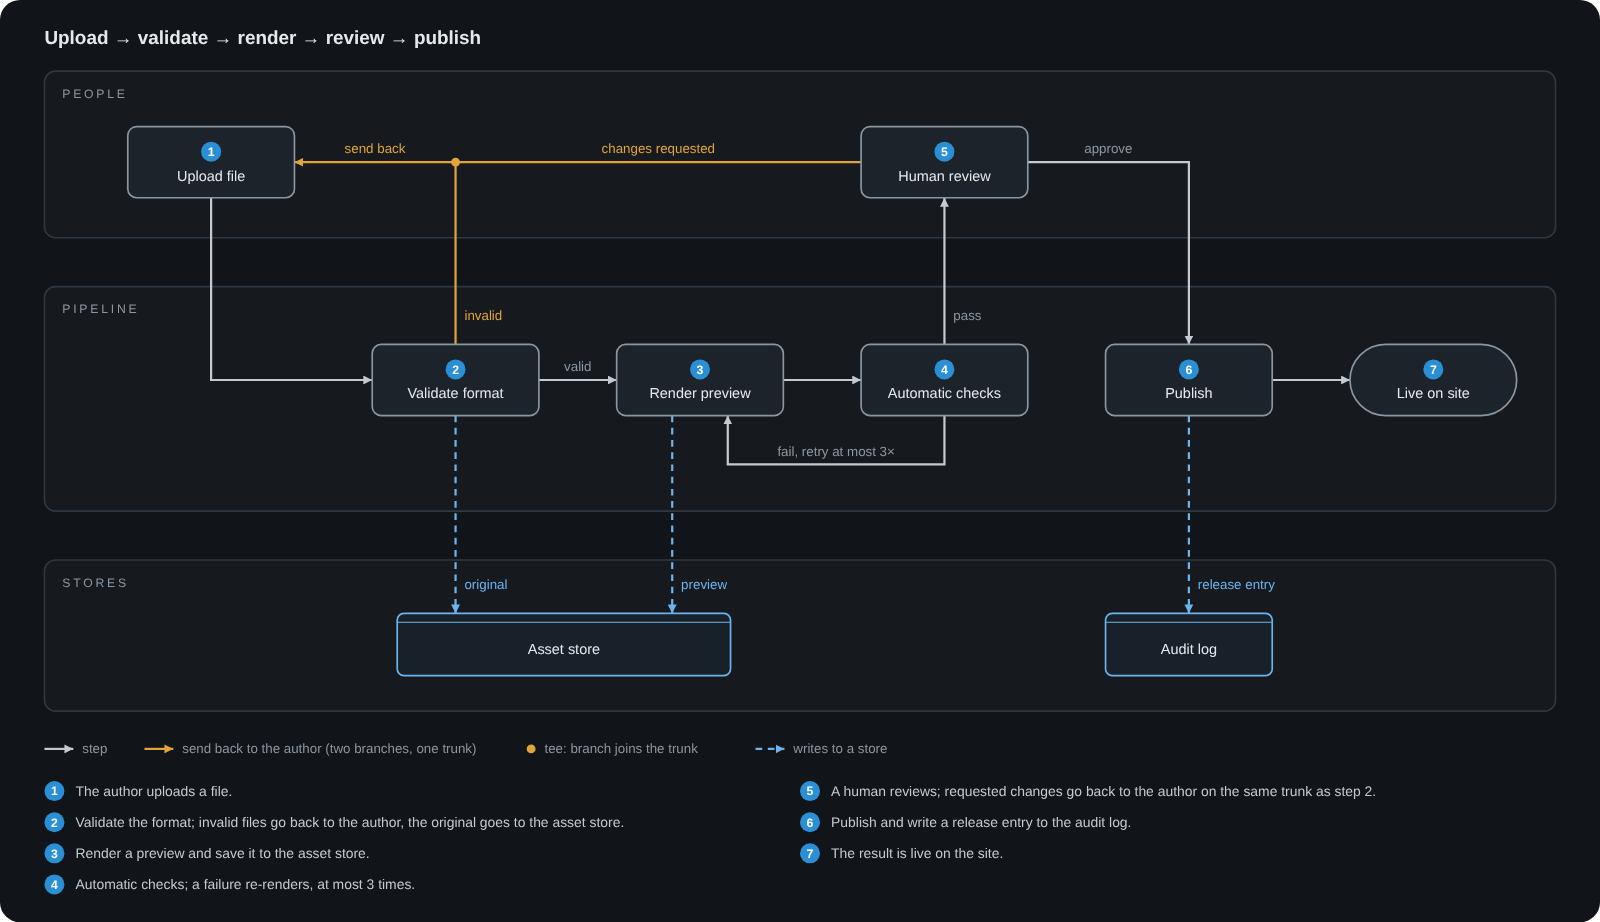
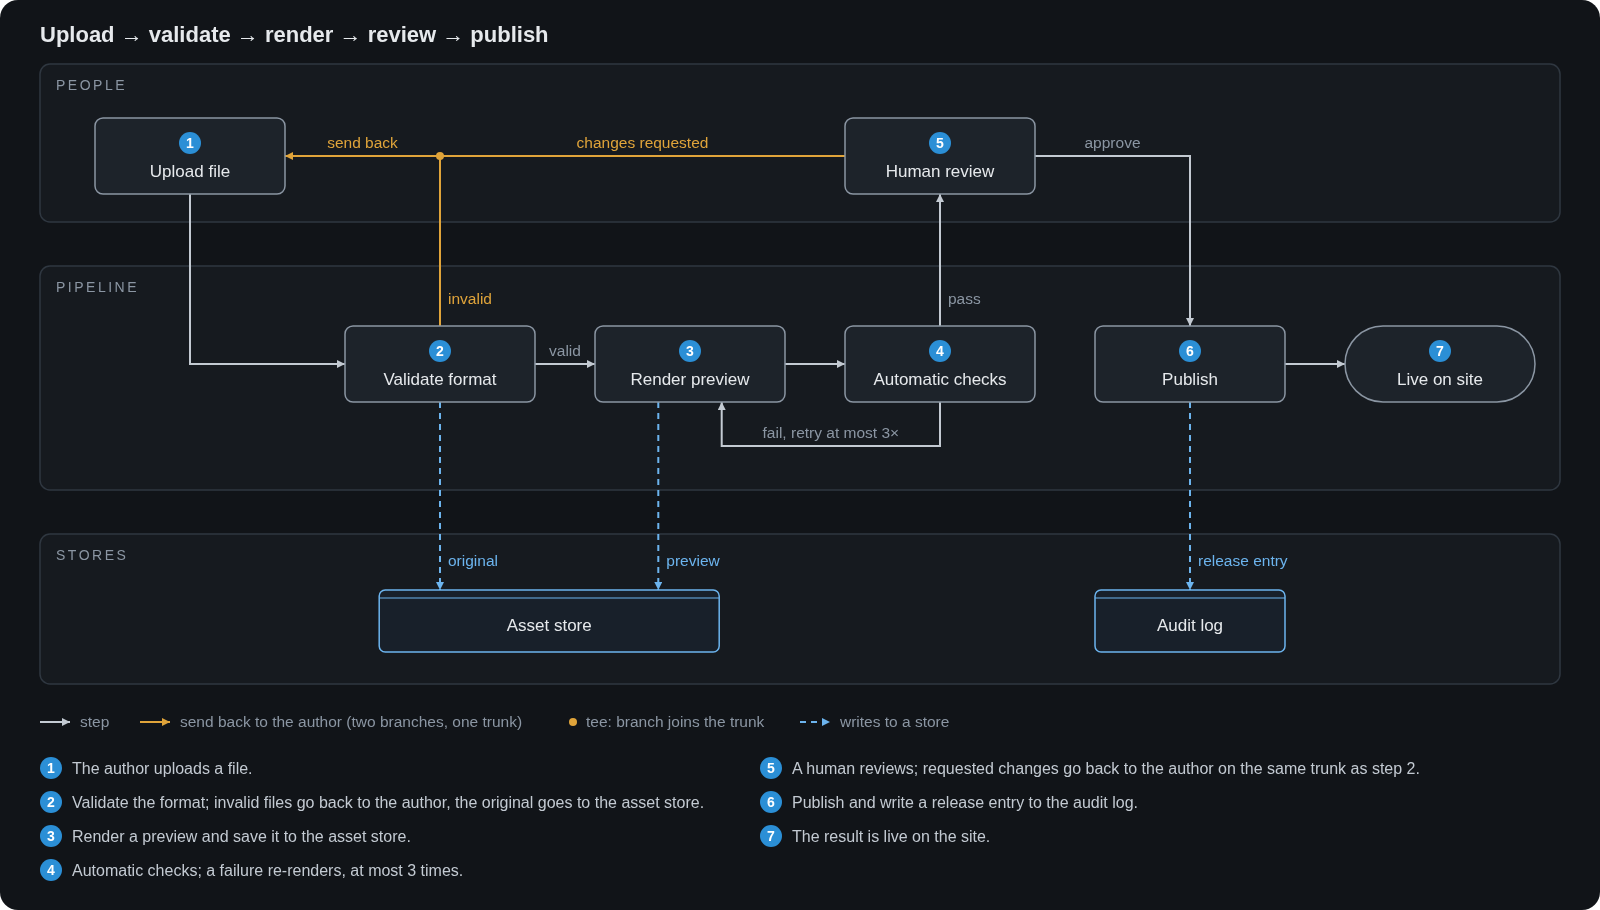
Larger text in the example diagrams; rule: labels stay selectable SVG text

diff --git a/skills/flowchart-rules/SKILL.md b/skills/flowchart-rules/SKILL.md
@@ -143,3 +143,8 @@ given in heads so they survive scaling.
 4. **Rendering a library diagram (mermaid etc.) that cannot meet the binding rules is a
    hint, not an excuse:** rebuild it by hand when the diagram matters; keep the original
    source collapsible next to it so nothing the author wrote gets lost.
+5. **Text stays text** (2026-10-13). Every label is a real SVG `<text>` element, never
+   converted to paths/outlines and never baked into a raster. In HTML deliverables inline
+   the `<svg>` in the page instead of `<img src=…svg>` or a PNG, so the text stays
+   selectable, searchable and translatable. PNG only where the medium forces it (e.g.
+   README images on GitHub), with the SVG source committed next to it.

diff --git a/README.md b/README.md
@@ -73,6 +73,8 @@ labels clear of every line; a legend and a numbered caption list inside the imag
 
 ![With the skill](examples/after-skill.png)
 
+The SVG sources in [`examples/`](examples/) keep the text selectable; GitHub shows images, so the README embeds PNGs.
+
 ## License
 
 [MIT](LICENSE)
